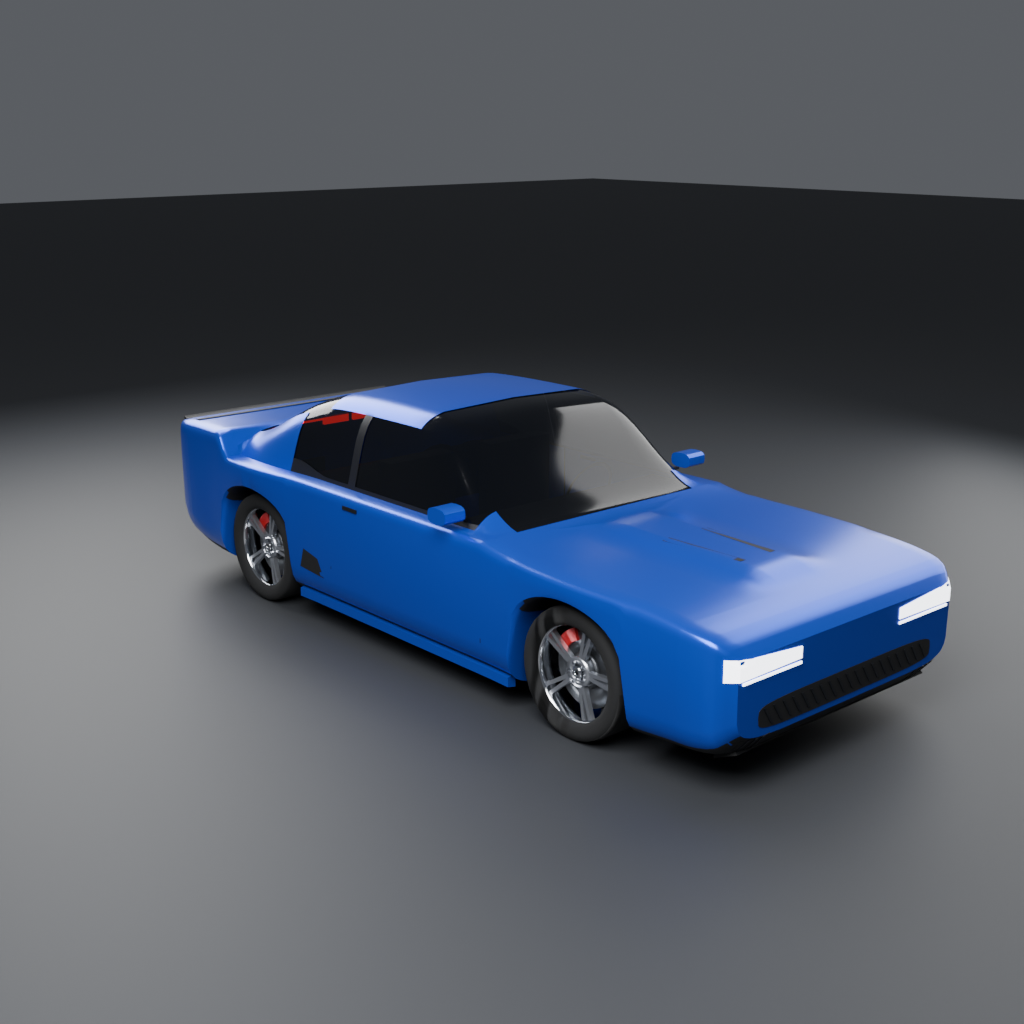
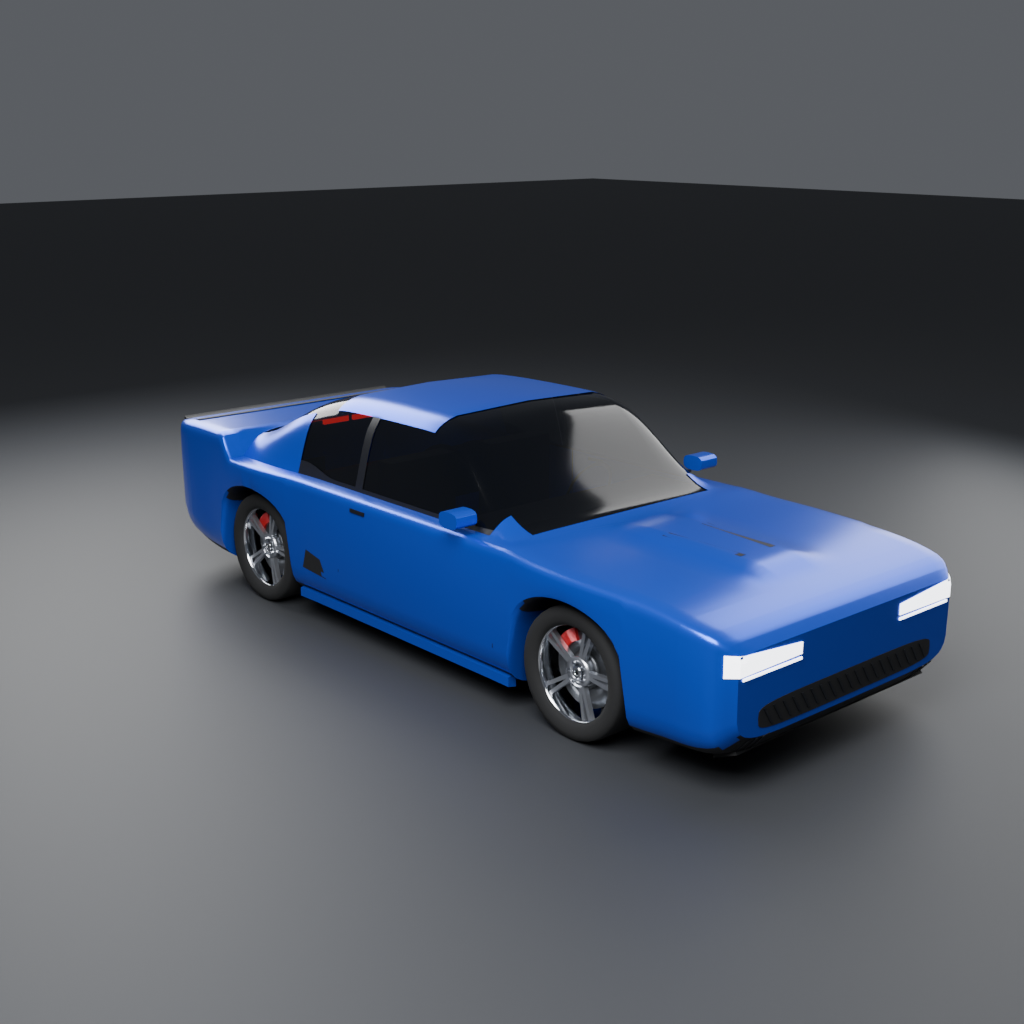
kaizen_rx34: короче и выше капот, запекание AO в occlusionTexture
План: по запросу владельца — укоротить и поднять капот (кабина вперёд, нос выше),
запечь AO окрашенных частей в общий атлас и подключить к glTF.

- spec: профиль и остекление сдвинуты, bPillar/doorFront в спецификации; силуэт пересобран
- lib/bake.py: AO Cycles → JPEG (оттенки серого) → glTF occlusionTexture
- build_car: общий атлас uv0 окрашенных частей, шина не перезаписывается
- render: кадр ao_check в листе
- LOD0 29 556 треугольников, 879 КБ после meshopt; валидатор зелёный

diff --git a/art/scripts/lib/bake.py b/art/scripts/lib/bake.py
@@ -1,0 +1,81 @@
+"""Запекание ambient occlusion (BLENDER_PLAN 5.2, шаг 7) и подключение к glTF как occlusionTexture.
+
+Все окрашенные части кузова развёрнуты в один атлас uv0, AO запекается Cycles в одну
+картинку. Экспортёр glTF берёт occlusion из группы нод «glTF Material Output» (вход Occlusion).
+"""
+
+import os
+
+import bpy
+
+from . import scene
+
+
+def _gltf_output_group():
+    name = 'glTF Material Output'
+    g = bpy.data.node_groups.get(name)
+    if g:
+        return g
+    g = bpy.data.node_groups.new(name, 'ShaderNodeTree')
+    g.interface.new_socket('Occlusion', in_out='INPUT', socket_type='NodeSocketFloat')
+    g.nodes.new('NodeGroupInput')
+    return g
+
+
+def _reload(old, path):
+    img = bpy.data.images.load(path)
+    img.colorspace_settings.name = 'Non-Color'
+    bpy.data.images.remove(old)
+    img.name = 'ao_body'
+    return img
+
+
+def bake_ao(objs, mats, size=2048, samples=32, distance=0.6, path=None):
+    """Запечь AO выбранных объектов в одну картинку и подключить её ко всем материалам mats."""
+    img = bpy.data.images.new('ao_body', size, size, alpha=False)
+    img.colorspace_settings.name = 'Non-Color'
+    sc = bpy.context.scene
+    sc.render.engine = 'CYCLES'
+    sc.cycles.device = 'CPU'
+    sc.cycles.samples = samples
+    if not sc.world:
+        sc.world = bpy.data.worlds.new('bake_world')
+    sc.world.light_settings.distance = distance
+    nodes = {}
+    for m in mats:
+        nt = m.node_tree
+        uvn = nt.nodes.new('ShaderNodeUVMap')
+        uvn.uv_map = 'uv0'
+        tex = nt.nodes.new('ShaderNodeTexImage')
+        tex.image = img
+        tex.name = 'ao_tex'
+        nt.links.new(uvn.outputs['UV'], tex.inputs['Vector'])
+        nt.nodes.active = tex
+        nodes[m] = tex
+    scene.select_only(objs)
+    sc.render.bake.margin = 8
+    sc.render.bake.use_clear = True
+    bpy.ops.object.bake(type='AO', margin=8, use_clear=True)
+    if path:
+        # JPEG: AO — плавные градации серого, в PNG 2048 весит ~1,6 МБ, в JPEG ~0,3 МБ
+        # (пока нет toktx для KTX2); экспортёр glTF сохраняет формат картинки
+        os.makedirs(os.path.dirname(path), exist_ok=True)
+        path = os.path.splitext(path)[0] + '.jpg'
+        st = sc.render.image_settings
+        st.file_format = 'JPEG'
+        st.color_mode = 'BW'
+        st.quality = 88
+        img.save_render(path, scene=sc)
+        st.file_format, st.color_mode = 'PNG', 'RGBA'
+        img = _reload(img, path)
+        for tex in nodes.values():
+            tex.image = img
+    img.pack()
+    # Подключение: картинка → группа «glTF Material Output».Occlusion
+    grp = _gltf_output_group()
+    for m, tex in nodes.items():
+        nt = m.node_tree
+        gn = nt.nodes.new('ShaderNodeGroup')
+        gn.node_tree = grp
+        nt.links.new(tex.outputs['Color'], gn.inputs['Occlusion'])
+    return img

diff --git a/art/scripts/cars/build_car.py b/art/scripts/cars/build_car.py
@@ -11,7 +11,7 @@ sys.path.insert(0, os.path.abspath(os.path.join(os.path.dirname(__file__), '..')
 
 import bpy  # noqa: E402
 
-from lib import checks, export, lod, render, scene, uv  # noqa: E402
+from lib import bake, checks, export, lod, render, scene, uv  # noqa: E402
 
 REQUIRED = [
     'car_root', 'body', 'hood', 'bumper_front', 'bumper_rear', 'skirts', 'spoiler', 'glass',
@@ -20,6 +20,9 @@ REQUIRED = [
     *(f'brake_{t}' for t in ('FL', 'FR', 'RL', 'RR')),
     'socket_spoiler', 'socket_exhaust', 'socket_plate_front', 'socket_plate_rear',
 ]
+
+# Окрашенные части: общий атлас uv0 и запечённый AO
+PAINTED = ('body', 'hood', 'bumper_front', 'bumper_rear', 'skirts', 'spoiler')
 
 
 def generator(spec):
@@ -54,12 +57,22 @@ def main():
         scene.apply_all(root)
         smooth_shading(root)
         meshes = [o for o in root.children_recursive if o.type == 'MESH']
-        uv.smart_uv0(meshes)
+        # uv0: окрашенные части — общий атлас (под AO), остальное — отдельно;
+        # у колёс своя развёртка шины под карту протектора — не трогаем
+        painted = [o for o in meshes if o.name in PAINTED]
+        other = [o for o in meshes if o not in painted and not o.name.startswith(('wheel_', 'brake_'))]
+        uv.smart_uv0(painted)
+        uv.smart_uv0(other)
         uv.livery_uv1(bpy.data.objects['body'])
         errs = checks.run(root, REQUIRED)
         if errs:
             print('\n'.join(f'CHECK: {e}' for e in errs))
             raise SystemExit(f'checks.py: {len(errs)} ошибок')
+        if spec.get('generator', 'car') == 'car':
+            mats = {m for o in painted for m in o.data.materials}
+            bake.bake_ao(painted, mats, size=1024, samples=64,
+                         path=os.path.join(scene.ART, 'export', 'cars', spec['id'], 'ao_body.png'))
+            print('AO: запечено')
         lod.make_lods(root)
         export.glb(root, p['glb'])
         scene.save_blend(p['blend'])

diff --git a/art/scripts/lib/render.py b/art/scripts/lib/render.py
@@ -240,6 +240,29 @@ def uv_check(root, out, body='body'):
     return [f]
 
 
+def ao_check(root, out):
+    """Запечённая карта AO на кузове (Workbench, режим текстуры) — проверка запекания."""
+    show_lod(root, 0)
+    if not bpy.data.images.get('ao_body'):
+        return []
+    lo, hi = bbox(_lod_objs(root, 0))
+    c = (lo + hi) / 2
+    cam = _camera()
+    cam.data.type = 'PERSP'
+    cam.data.lens = 50
+    _setup('WORKBENCH')
+    sh = bpy.context.scene.display.shading
+    sh.color_type = 'TEXTURE'
+    sh.light = 'FLAT'
+    sh.show_object_outline = False
+    sh.show_cavity = False
+    _aim(cam, c + Vector((0.75, 0.85, 0.32)).normalized() * (hi - lo).length * 1.55, c)
+    f = _render(os.path.join(out, 'ao_check.png'))
+    sh.color_type = 'MATERIAL'
+    sh.light = 'STUDIO'
+    return [f]
+
+
 def lod_strip(root, out):
     """LOD0 / LOD1 / LOD2 рядом (вид сбоку)."""
     files = []
@@ -289,7 +312,7 @@ def compose(files, path, cols=3, tile=512, bg=(0.08, 0.08, 0.1, 1)):
 
 
 SHEET_ORDER = ['three_quarter_front', 'three_quarter_rear', 'night', 'side', 'front', 'rear',
-               'top', 'uv_check', 'lod', 'kits']
+               'top', 'uv_check', 'lod', 'ao_check', 'kits']
 
 
 def all_car(root, out):
@@ -299,6 +322,7 @@ def all_car(root, out):
     night(root, out)
     uv_check(root, out)
     lod_strip(root, out)
+    ao_check(root, out)
     files = [os.path.join(out, f'{n}.png') for n in SHEET_ORDER]
     return compose(files, os.path.join(out, 'sheet.png'), cols=3, tile=512)
 

diff --git a/art/scripts/cars/silhouette.py b/art/scripts/cars/silhouette.py
@@ -196,7 +196,7 @@ def side_view(d, s, ox, oy):
         low.append((X(u), oy + z))
     d.poly(up + low, 'glass')
     # Средняя стойка (B) — по передней кромке задней двери
-    ub = 0.6  # купе: одна длинная дверь до средней стойки
+    ub = g.get('bPillar', 0.6)  # купе: одна длинная дверь до средней стойки
     d.line([(X(ub), oy + zw), (X(ub - 0.006), oy + s.top(ub) - t)], 'body', 0.05)
     # Лобовое и заднее стекло — линии вдоль верха
     d.line([(X(u), oy + s.top(u)) for u in [lerp(g['windshieldBase'], g['roofFront'], k / 12) for k in range(13)]],
@@ -205,8 +205,9 @@ def side_view(d, s, ox, oy):
            'glass', 0.03)
     # Двери, плечевая линия, порог
     zs = s.shoulder_z()
-    d.line([(X(0.335), oy + zw), (X(0.335), oy + s.bottom(0.335) + 0.02)], 'line', 0.008)
-    d.line([(X(0.61), oy + zw + 0.01), (X(0.618), oy + s.bottom(0.618) + 0.03)], 'line', 0.008)
+    ud = g.get('doorFront', 0.335)
+    d.line([(X(ud), oy + zw), (X(ud), oy + s.bottom(ud) + 0.02)], 'line', 0.008)
+    d.line([(X(ub + 0.01), oy + zw + 0.01), (X(ub + 0.018), oy + s.bottom(ub + 0.018) + 0.03)], 'line', 0.008)
     d.line([(X(u), oy + zs + 0.012 * math.sin(u * math.pi)) for u in [lerp(0.03, 0.97, k / 40) for k in range(41)]],
            'body2', 0.02)
     # Нижняя «отбойная» линия двери (door kick)

diff --git a/art/scripts/cars/body.py b/art/scripts/cars/body.py
@@ -42,7 +42,8 @@ class Body:
         us.update(round(x, 5) for x in (0.003, 0.008, 0.015, 0.025, 0.985, 0.992, 0.997))
         # Станции точно по границам стёкол и стоек — края окон ровные
         self.ua, self.uq = g['windshieldBase'] + 0.035, g['roofRear'] + 0.045
-        self.ub = 0.6
+        self.ub = g.get('bPillar', 0.6)
+        self.u_door = g.get('doorFront', 0.335)
         for x in (g['windshieldBase'], g['roofFront'], g['roofRear'], g['backlightBase'], self.ua, self.uq,
                   self.ub - 0.007, self.ub + 0.007):
             us.add(round(x, 5))
@@ -78,7 +79,8 @@ class Body:
         b = self.spec.get('hood', {})
         if b.get('style') != 'power_bulge_slots':
             return 0.0
-        return 0.032 * smooth(0.06, 0.1, u) * (1 - smooth(0.27, 0.33, u)) * (1 - smooth(0.18, 0.27, abs(x)))
+        ws = self.g['windshieldBase']
+        return 0.032 * smooth(0.06, 0.1, u) * (1 - smooth(ws - 0.07, ws - 0.01, u)) * (1 - smooth(0.18, 0.27, abs(x)))
 
     def kick(self, u):
         """Подъём нижней кромки заднего бокового окна («кик»)."""

diff --git a/art/scripts/cars/car.py b/art/scripts/cars/car.py
@@ -304,11 +304,12 @@ def side_details(body, spec, parts):
         if b:
             _add_bm(parts['body'], b)
         # Зазоры: передняя кромка двери и задняя (у средней стойки)
-        for path in ([(0.335, zw - 0.01), (0.334, 0.33), (0.345, s.bottom(0.345) + 0.03)],
-                     [(0.608, zw - 0.005), (0.613, 0.4), (0.618, s.bottom(0.618) + 0.04)]):
+        ud, ub = body.u_door, body.ub + 0.008
+        for path in ([(ud, zw - 0.01), (ud - 0.001, 0.33), (ud + 0.01, s.bottom(ud + 0.01) + 0.03)],
+                     [(ub, zw - 0.005), (ub + 0.005, 0.4), (ub + 0.01, s.bottom(ub + 0.01) + 0.04)]):
             _add_bm(parts['body'], strip_path(body, path, view, 0.005, 0.001, 0.004, 2))
         # Ручка
-        hu = 0.555
+        hu = body.ub - 0.045
         b = slab(body, [(hu, zw - 0.075), (hu + 0.028, zw - 0.075), (hu + 0.028, zw - 0.055),
                         (hu, zw - 0.055)][::(1 if view == 'side_r' else -1)], view, 0.006, 0.004, 1)
         if b:

diff --git a/docs/DECISIONS.md b/docs/DECISIONS.md
@@ -140,3 +140,5 @@
 - 2026-11-26 — Фары, фонари, решётка, воздухозаборники, щели капота, зазоры дверей — накладки, спроецированные лучами на поверхность кузова (BVH); крупные накладки — сеткой, где каждый узел проецируется отдельно (иначе плоская грань фары уходила внутрь скруглённого угла носа). Колёсные ниши сквозные, поэтому добавлены тёмные подкрылки.
 - 2026-11-26 — Колёса машины — из утверждённой библиотеки (`spec.wheels`: диск и диаметр), с LOD генератора; левые зеркалятся по X. `lod.make_lods` не трогает меши, у которых уже есть `_LOD1`.
 - 2026-11-26 — Не сделано в B2 (честно): запекание карт нормалей и AO с высокополигональной копии (шаг 7) и текстура маски покраски (шаг 9) — сейчас окраска задаётся материалами (`paint`, `trim`, `dark`); проверка в игре (шаг 13) — после утверждения листа, вместе с конфигом физики машины.
+- 2026-11-26 — **Правка `kaizen_rx34` по просьбе владельца:** капот короче и выше — кабина сдвинута вперёд на ~2,5 % длины (лобовое с 0,335 до 0,31), нос поднят (0,49 → 0,51 высоты), капот у стекла — 0,645. Положение средней стойки и передней кромки двери вынесено в спецификацию (`greenhouse.bPillar`, `greenhouse.doorFront`). Силуэт пересобран теми же кривыми.
+- 2026-11-26 — **AO (шаг 7):** окрашенные части (`body`, `hood`, бамперы, `skirts`, `spoiler`) развёрнуты в общий атлас uv0, AO запекается Cycles (1024², 64 сэмпла, дистанция 0,6 м) и подключается к glTF как `occlusionTexture` через группу нод «glTF Material Output». Формат — JPEG в градациях серого (165 КБ; PNG 2048 весил 1,8 МБ, атлас 2048 даже в JPEG — 630 КБ из-за шума); после установки `toktx` перейдём на KTX2. Колёса в общий атлас не входят — у шины своя развёртка под протектор. В рендерах Блендера AO-карта не видна (Cycles считает тени сам), поэтому в лист добавлен кадр `ao_check` (Workbench, режим текстуры). Модель — 879 КБ после meshopt. Карта нормалей с высокополигональной копии по-прежнему не запекается: швы и детали — геометрией.
